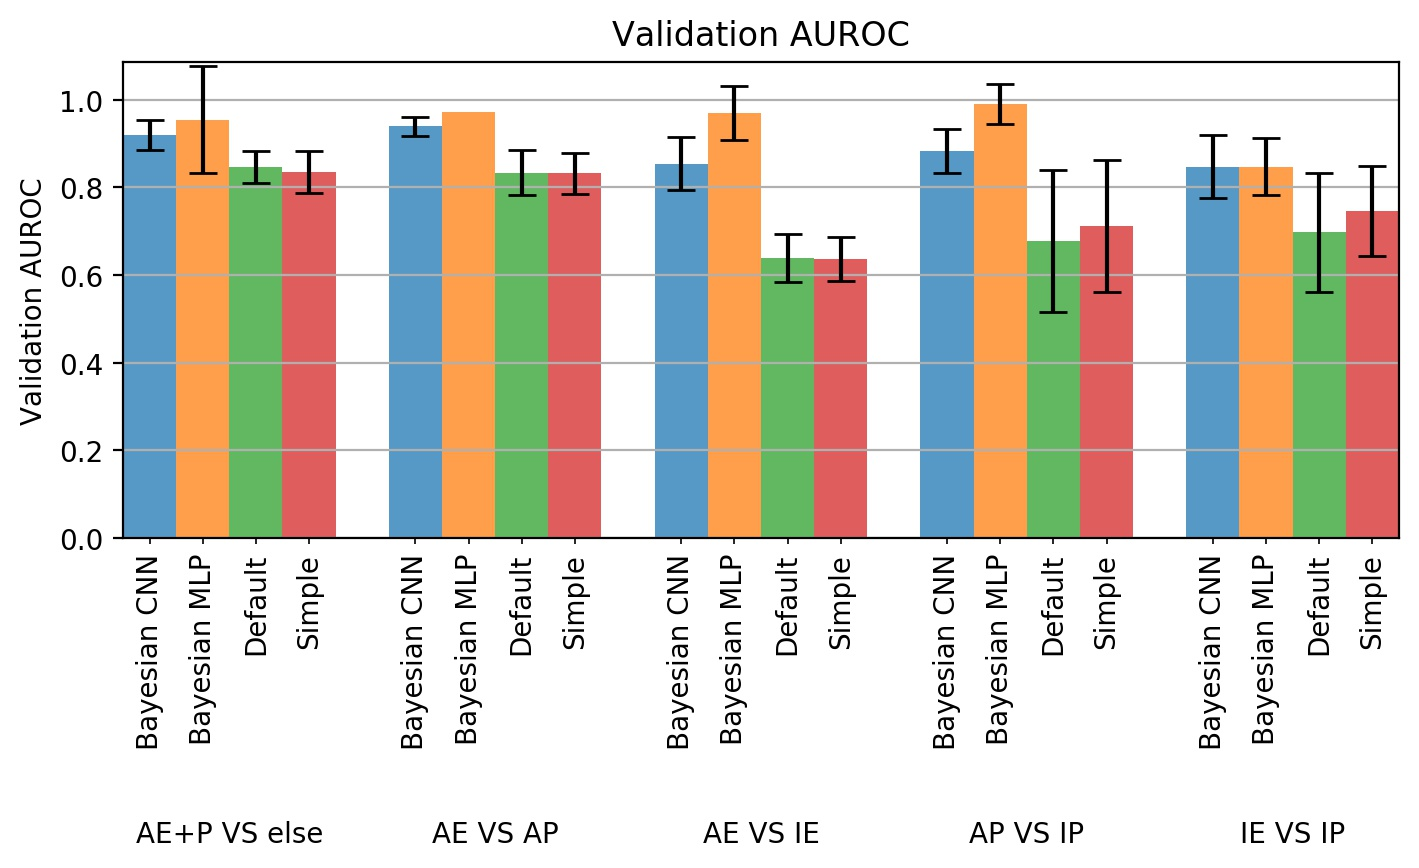
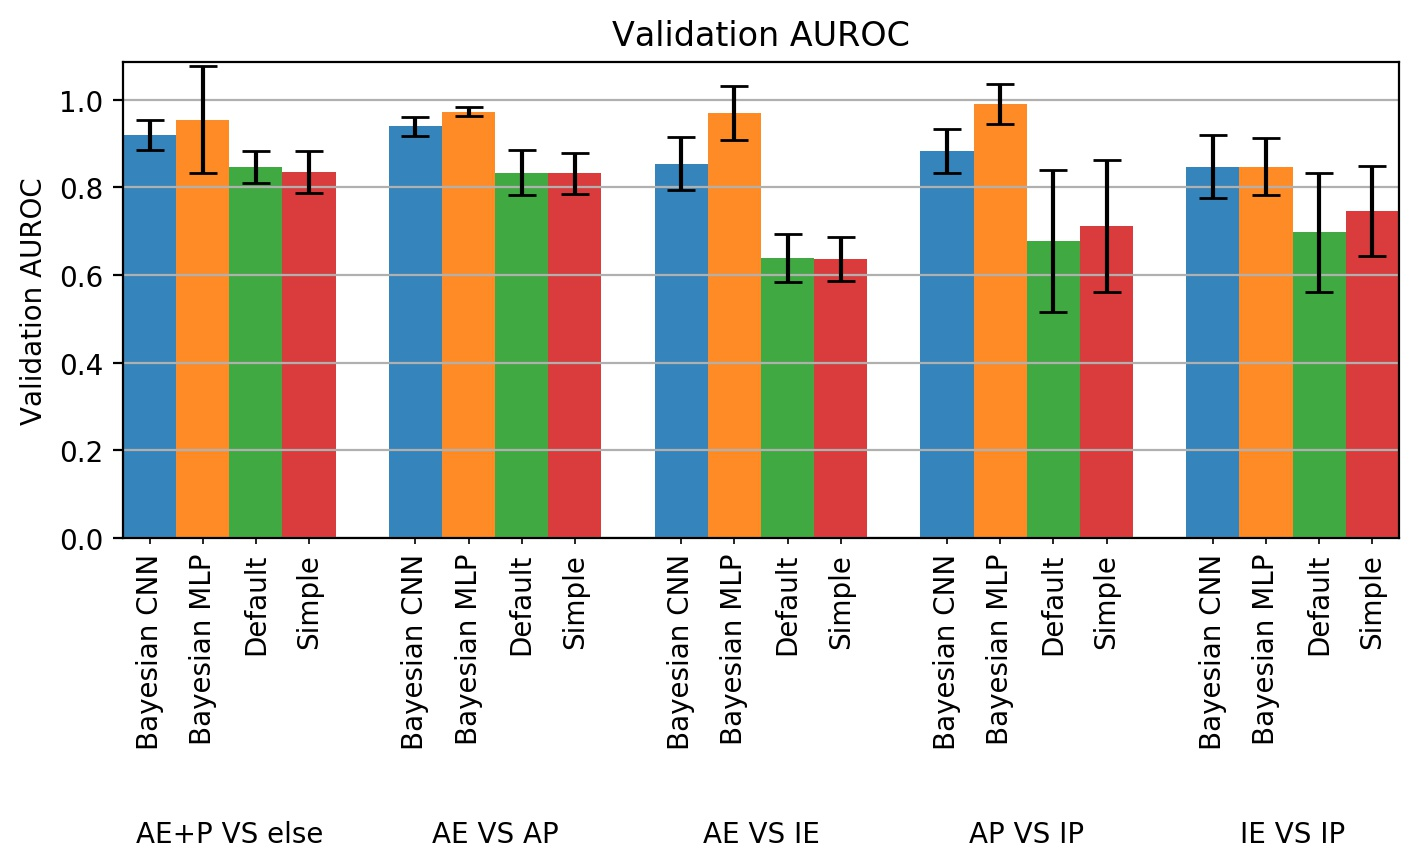
Added support for unique labels (both major and minor)

diff --git a/barplots/barplot.py b/barplots/barplot.py
@@ -28,6 +28,8 @@ def barplot(
     humanize_time_features: bool = True,
     minor_rotation: float = 0,
     major_rotation: float = 0,
+    unique_minor_labels: bool = False,
+    unique_major_labels: bool = True,
     auto_normalize_metrics: bool = True,
     custom_defaults: Dict[str, List[str]] = None
 ) -> Tuple[Figure, Axes]:
@@ -81,6 +83,10 @@ def barplot(
         Rotation for the minor ticks of the bars.
     major_rotation: float = 0,
         Rotation for the major ticks of the bars.
+    unique_minor_labels: bool = False,
+        Avoid replicating minor labels on the same axis in multiple subplots settings.
+    unique_major_labels: bool = True,
+        Avoid replicating major labels on the same axis in multiple subplots settings.
     auto_normalize_metrics: bool = True,
         Whetever to apply or not automatic normalization
         to the metrics that are recognized to be between
@@ -107,11 +113,6 @@ def barplot(
             orientation=orientation
         ))
 
-    if order not in ("alphabetical", "magnitudo"):
-        raise ValueError("Given order \"{order}\" is not supported.".format(
-            order=order
-        ))
-
     if not isinstance(plots_per_row, int) and plots_per_row != "auto" or isinstance(plots_per_row, int) and plots_per_row < 1:
         raise ValueError("Given plots_per_row \"{plots_per_row}\" is not 'auto' or a positive integer.".format(
             plots_per_row=plots_per_row
@@ -126,16 +127,23 @@ def barplot(
         raise ValueError(
             "Unable to split plots with only a single index level.")
 
+    if plots_per_row == "auto" and subplots:
+        plots_per_row = min(
+            len(levels[0]),
+            2 if vertical else 4
+        )
+
     if colors is None:
-        colors = dict(zip(levels[-1], list(TABLEAU_COLORS.keys()) + list(CSS4_COLORS.keys())))
+        colors = dict(
+            zip(levels[-1], list(TABLEAU_COLORS.keys()) + list(CSS4_COLORS.keys())))
     if alphas is None:
-        alphas = dict(zip(levels[-1], (0.75,)*len(levels[-1])))
+        alphas = dict(zip(levels[-1], (0.9,)*len(levels[-1])))
 
     figure, axes = get_axes(
         df, bar_width, height, dpi, title, data_label, vertical, subplots, plots_per_row, custom_defaults, expected_levels
     )
 
-    for index, ax in zip(levels[0], axes):
+    for i, (index, ax) in enumerate(zip(levels[0], axes)):
         if subplots:
             sub_df = df.loc[index]
         else:
@@ -143,6 +151,11 @@ def barplot(
 
         plot_bars(ax, sub_df, bar_width, alphas, colors,
                   vertical=vertical, min_std=min_std)
+
+        is_not_first_ax = subplots and (
+            (not vertical and i % plots_per_row) or
+            (vertical and i < len(axes) - plots_per_row)
+        )
 
         plot_bar_labels(
             ax,
@@ -153,6 +166,8 @@ def barplot(
             bar_width,
             minor_rotation,
             major_rotation,
+            unique_minor_labels and is_not_first_ax,
+            unique_major_labels and is_not_first_ax,
             custom_defaults
         )
 

diff --git a/barplots/utils/plot_bar_labels.py b/barplots/utils/plot_bar_labels.py
@@ -16,8 +16,18 @@ def plot_bar_labels(
     bar_width: float,
     minor_rotation: float,
     major_rotation: float,
+    unique_minor_labels: bool,
+    unique_major_labels: bool,
     custom_defaults: Dict[str, List[str]]
 ):
+    """
+    Parameters
+    ------------
+    unique_minor_labels: bool = True,
+        Avoid replicating minor labels on the same axis in multiple subplots settings.
+    unique_major_labels: bool = True,
+        Avoid replicating major labels on the same axis in multiple subplots settings.
+    """
     other_positions = set()
     width = get_max_bar_position(df, bar_width)
     for level in reversed(range(max(levels-2, 0), levels)):
@@ -32,6 +42,10 @@ def plot_bar_labels(
         ]
         other_positions |= set(positions)
         minor = level == levels-1
+        if minor and unique_minor_labels:
+            continue
+        if not minor and unique_major_labels:
+            continue
         if vertical:
             axes.set_xticks(positions, minor=minor)
             labels = axes.set_xticklabels(labels, minor=minor, ha="center")
@@ -50,7 +64,12 @@ def plot_bar_labels(
                             figure.canvas.get_renderer()).height
                         for label in labels
                     )/2,
-                    width=0,
+                    width=0
+                )
+            if not minor:
+                axes.tick_params(
+                    axis='x',
+                    which='major',
                     labelrotation=major_rotation
                 )
         else:
@@ -71,6 +90,11 @@ def plot_bar_labels(
                             figure.canvas.get_renderer()).width
                         for label in labels
                     )/2,
-                    width=0,
+                    width=0
+                )
+            if not minor:
+                axes.tick_params(
+                    axis='y',
+                    which='major',
                     labelrotation=major_rotation
                 )

diff --git a/tests/test_histograms.py b/tests/test_histograms.py
@@ -24,6 +24,12 @@ def test_histograms():
         "minor_rotation": [
             0, 90
         ],
+        "unique_minor_labels": [
+            True, False
+        ],
+        "unique_major_labels": [
+            True, False
+        ],
         "subplots": [
             True, False
         ]
@@ -75,11 +81,20 @@ def test_histograms():
         if not (kwargs["minor_rotation"] or kwargs["major_rotation"]) and kwargs["orientation"] == "horizontal":
             continue
 
+        if (kwargs["show_legend"] or not kwargs["subplots"]) and (kwargs["unique_minor_labels"] or kwargs["unique_major_labels"]):
+            continue
+
         if kwargs["major_rotation"]:
             path += "_major_rotation"
 
         if kwargs["minor_rotation"]:
             path += "_minor_rotation"
+
+        if kwargs["unique_minor_labels"]:
+            path += "_unique_minor_labels"
+
+        if kwargs["unique_major_labels"]:
+            path += "_unique_major_labels"
 
         path += "_{feature}.jpg"
 

diff --git a/barplots/barplots.py b/barplots/barplots.py
@@ -64,13 +64,14 @@ def barplots(
     if len(tasks) == 0:
         raise ValueError("No plottable feature found in given dataframe!")
 
-    with Pool(min(len(tasks), cpu_count())) as p:
-        list(tqdm(
-            p.imap(_barplot, tasks),
-            desc="Rendering barplots",
-            total=len(tasks),
-            dynamic_ncols=True,
-            disable=not verbose
-        ))
-        p.close()
-        p.join()
+    _barplot(tasks[0])
+    # with Pool(min(len(tasks), cpu_count())) as p:
+    #     list(tqdm(
+    #         p.imap(_barplot, tasks),
+    #         desc="Rendering barplots",
+    #         total=len(tasks),
+    #         dynamic_ncols=True,
+    #         disable=not verbose
+    #     ))
+    #     p.close()
+    #     p.join()

diff --git a/barplots/utils/get_axes.py b/barplots/utils/get_axes.py
@@ -24,7 +24,7 @@ def get_axes(
     data_label: str,
     vertical: bool,
     subplots: bool,
-    plots_per_row: Union[int, str],
+    plots_per_row: int,
     custom_defaults: Dict[str, List[str]],
     expected_levels: int
 ) -> Tuple[Figure, Axes]:
@@ -64,10 +64,6 @@ def get_axes(
     if height is None:
         exponent = 1 if subplots or expected_levels>1 else 1.5
         height = side/(golden_ratio**exponent)
-
-    if plots_per_row == "auto" and subplots:
-        plots_per_row = 2 if vertical else 4
-        plots_per_row = min(df.index.levels[0].size, plots_per_row)
 
     if subplots:
         nrows = ceil(df.index.levels[0].size/plots_per_row)
